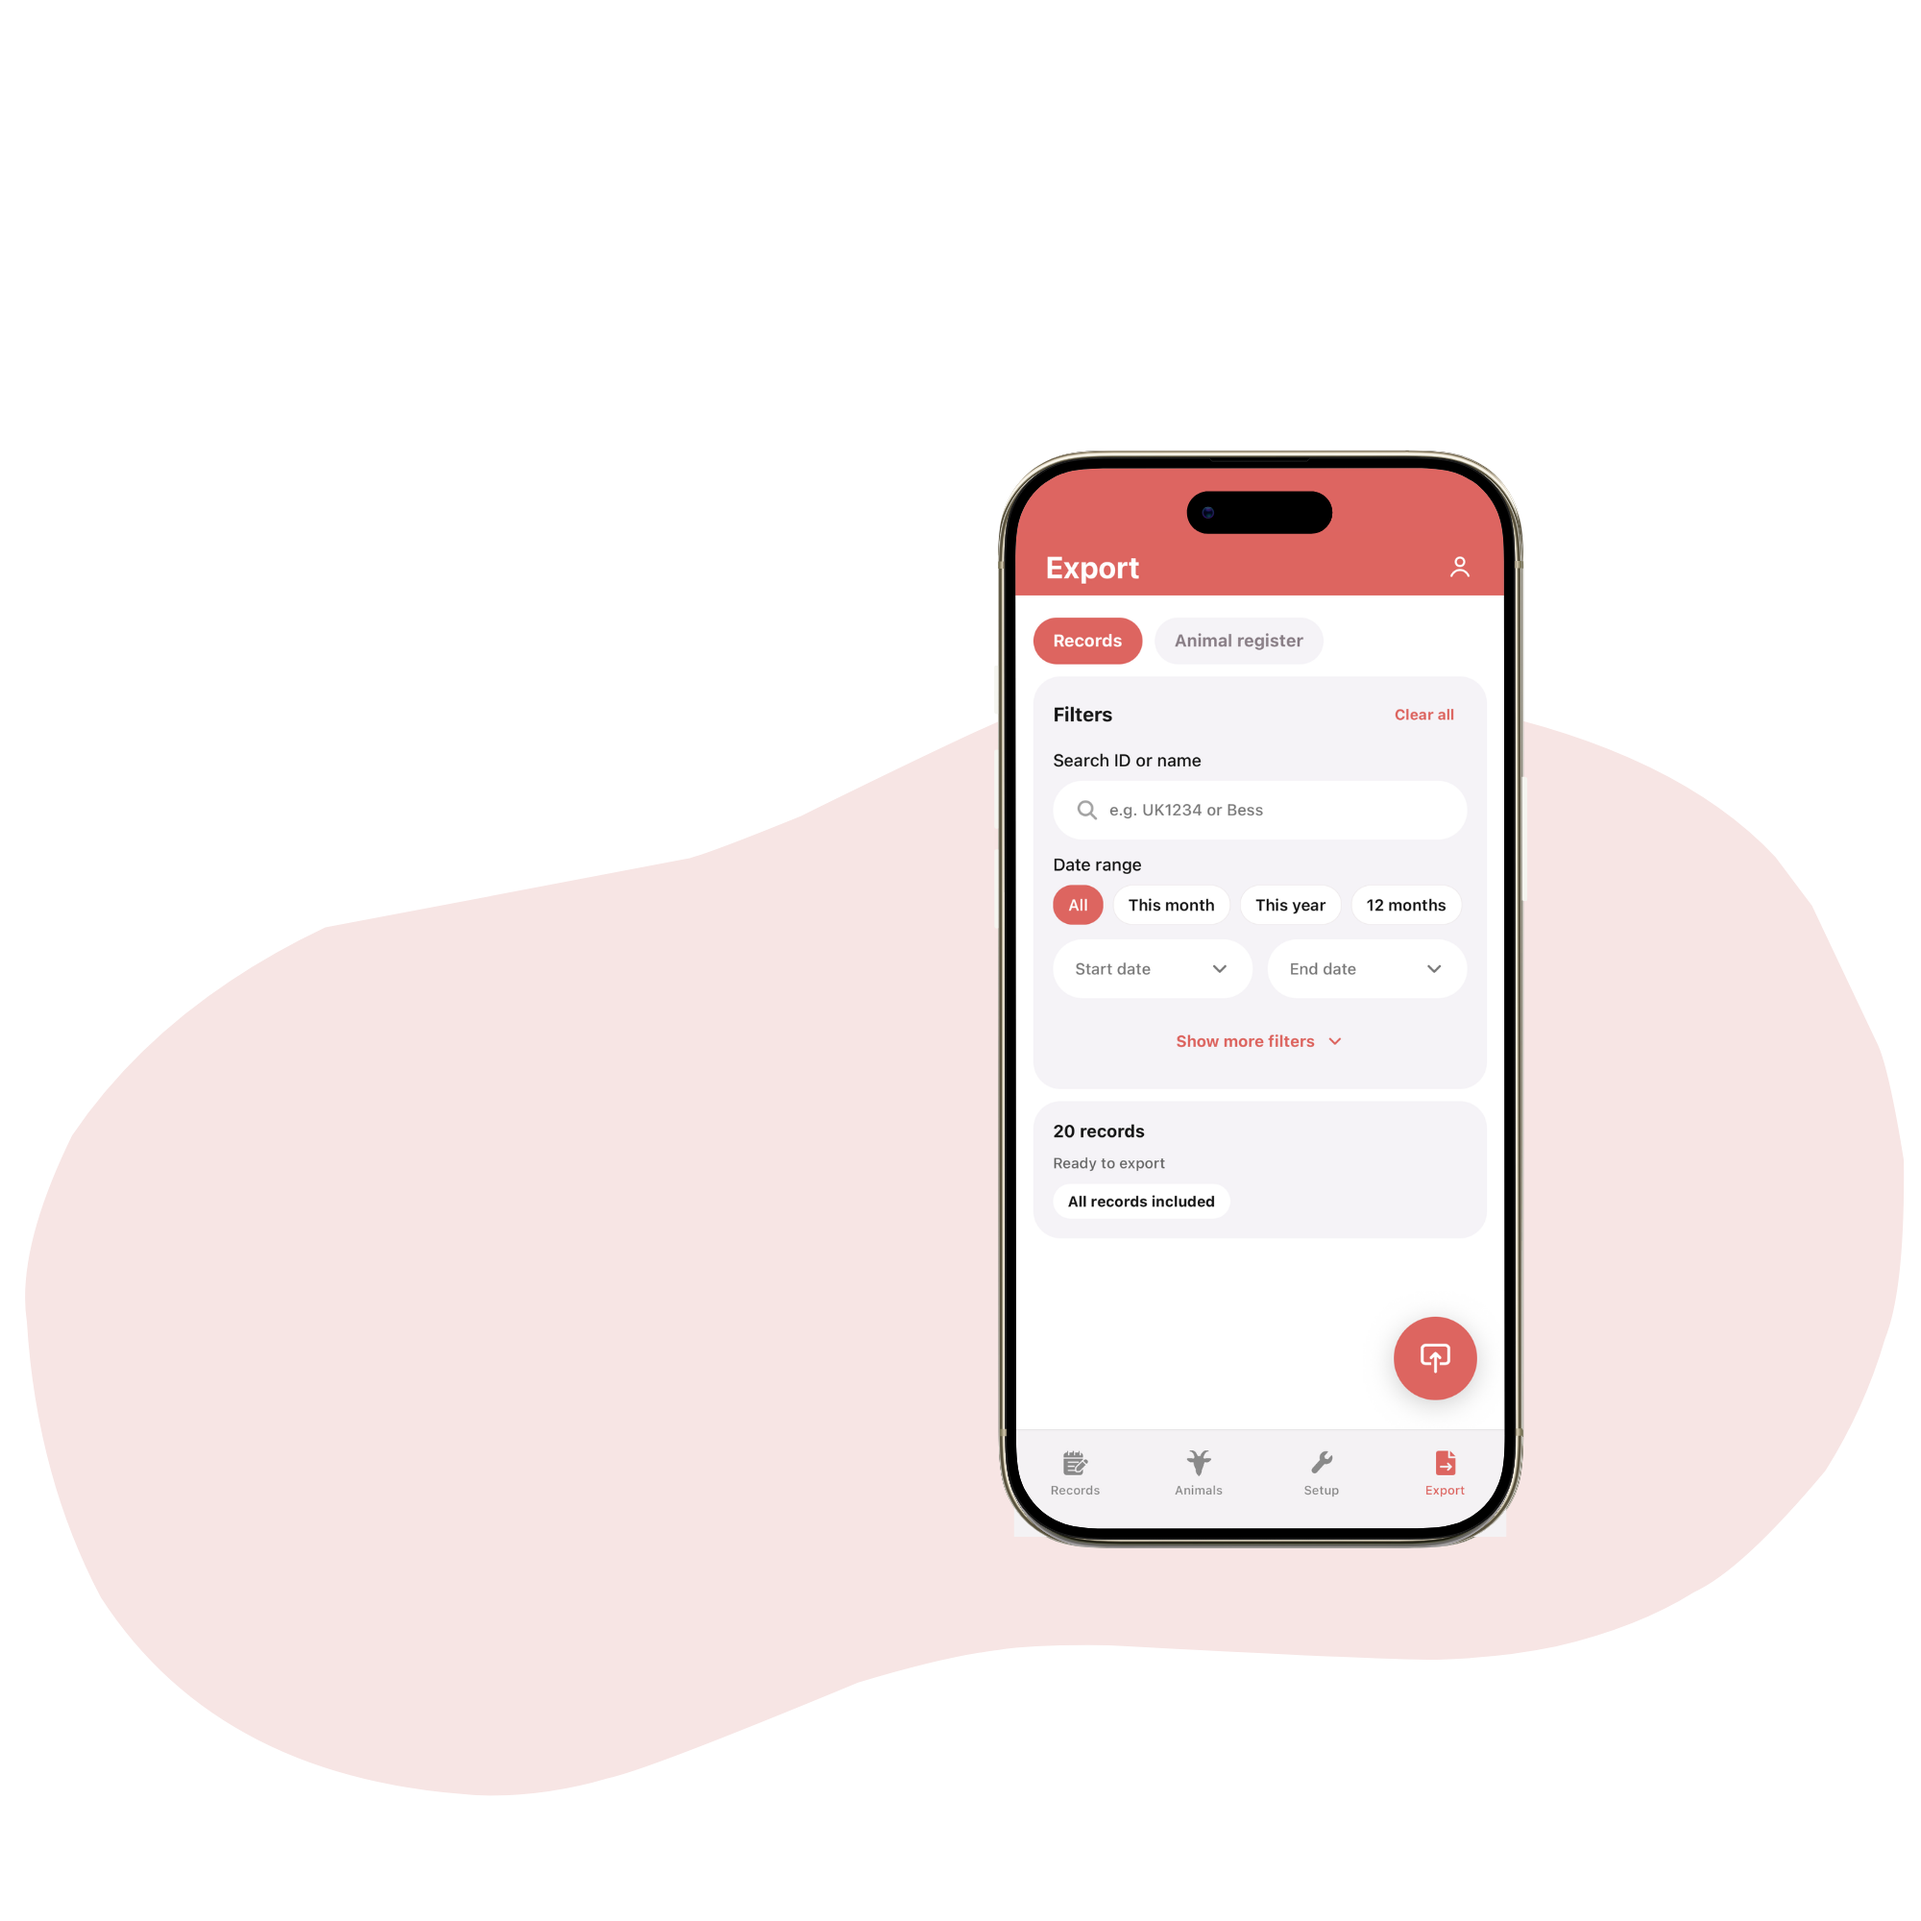
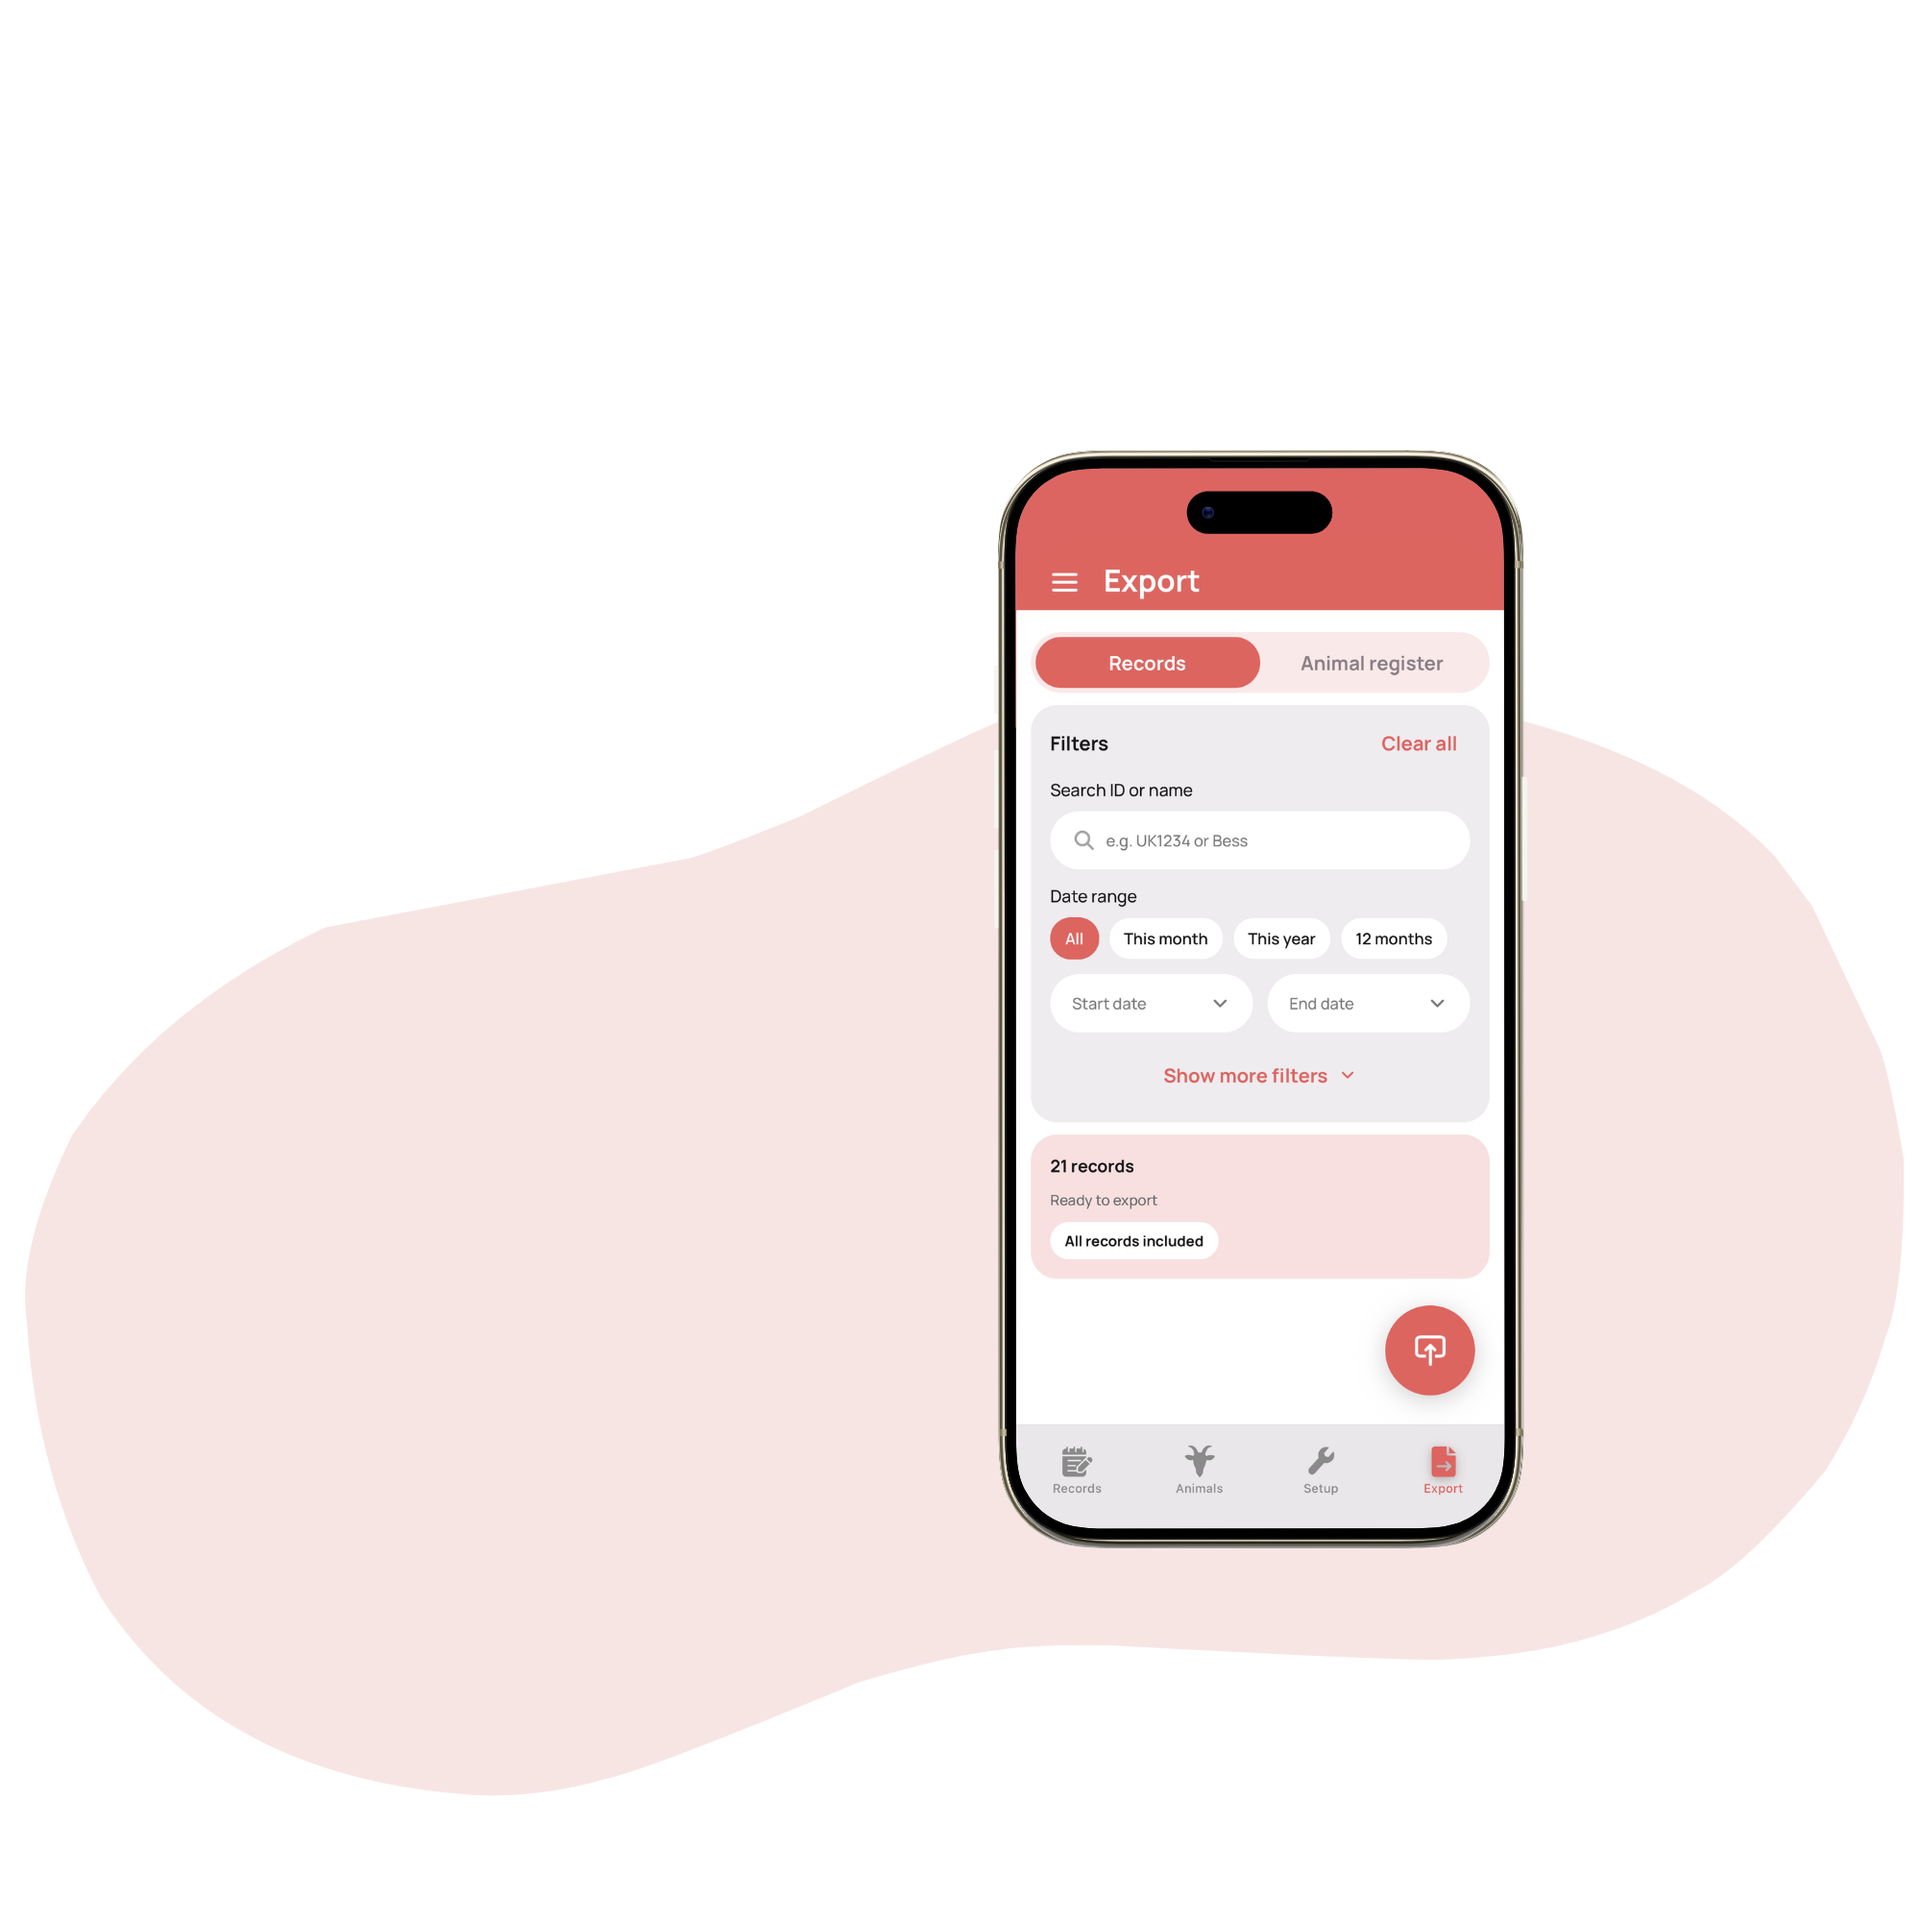
Refresh website marketing graphics

diff --git a/docs/index.html b/docs/index.html
@@ -66,7 +66,7 @@
           <source media="(max-width: 900px)" srcset="./images/landing-page-mobile.png" />
           <img src="./images/landing-page.png?v=9" alt="" aria-hidden="true" loading="eager" />
         </picture>
-        <img class="hero-phone hero-phone-new" src="./images/landing-page-screens.png?v=2" alt="" aria-hidden="true" loading="eager" />
+        <img class="hero-phone hero-phone-new" src="./images/landing-page-screens.png?v=3" alt="" aria-hidden="true" loading="eager" />
         <img class="hero-animal hero-animal-rabbit" src="./images/rabbit.png" alt="" aria-hidden="true" loading="lazy" />
       </figure>
     </section>
@@ -226,7 +226,7 @@
       <section class="feature-story-list" id="features">
         <article class="feature-story feature-story-graphic">
           <figure class="feature-shot feature-story-screen">
-            <img class="feature-screen-image" src="./images/graphic-animals.png?v=3" alt="Animals list and View Animal screens in LivestockBook" loading="lazy" />
+            <img class="feature-screen-image" src="./images/graphic-animals.png?v=4" alt="Animals list and View Animal screens in LivestockBook" loading="lazy" />
           </figure>
           <div class="feature-story-copy">
             <p class="eyebrow">Add or Import Animals</p>
@@ -244,7 +244,7 @@
             <p>Log movements, weights, treatments,<br />health checks and other records.</p>
           </div>
           <figure class="feature-shot feature-story-screen">
-            <img class="feature-screen-image" src="./images/graphic-records.png?v=4" alt="Add Record and Records screens in LivestockBook" loading="lazy" />
+            <img class="feature-screen-image" src="./images/graphic-records.png?v=5" alt="Add Record and Records screens in LivestockBook" loading="lazy" />
             <img class="story-accent" src="./images/cow.png" alt="" aria-hidden="true" loading="lazy" />
           </figure>
         </article>
@@ -252,7 +252,7 @@
         <article class="feature-story feature-story-graphic">
           <img class="story-arrow story-arrow-2" src="./images/down-left-arrow.png" alt="" aria-hidden="true" loading="lazy" />
           <figure class="feature-shot feature-story-screen">
-            <img class="feature-screen-image" src="./images/graphic-export.png?v=3" alt="Export screens in LivestockBook" loading="lazy" />
+            <img class="feature-screen-image" src="./images/graphic-export.png?v=4" alt="Export screens in LivestockBook" loading="lazy" />
             <img class="story-accent" src="./images/duck.png" alt="" aria-hidden="true" loading="lazy" />
           </figure>
           <div class="feature-story-copy">
